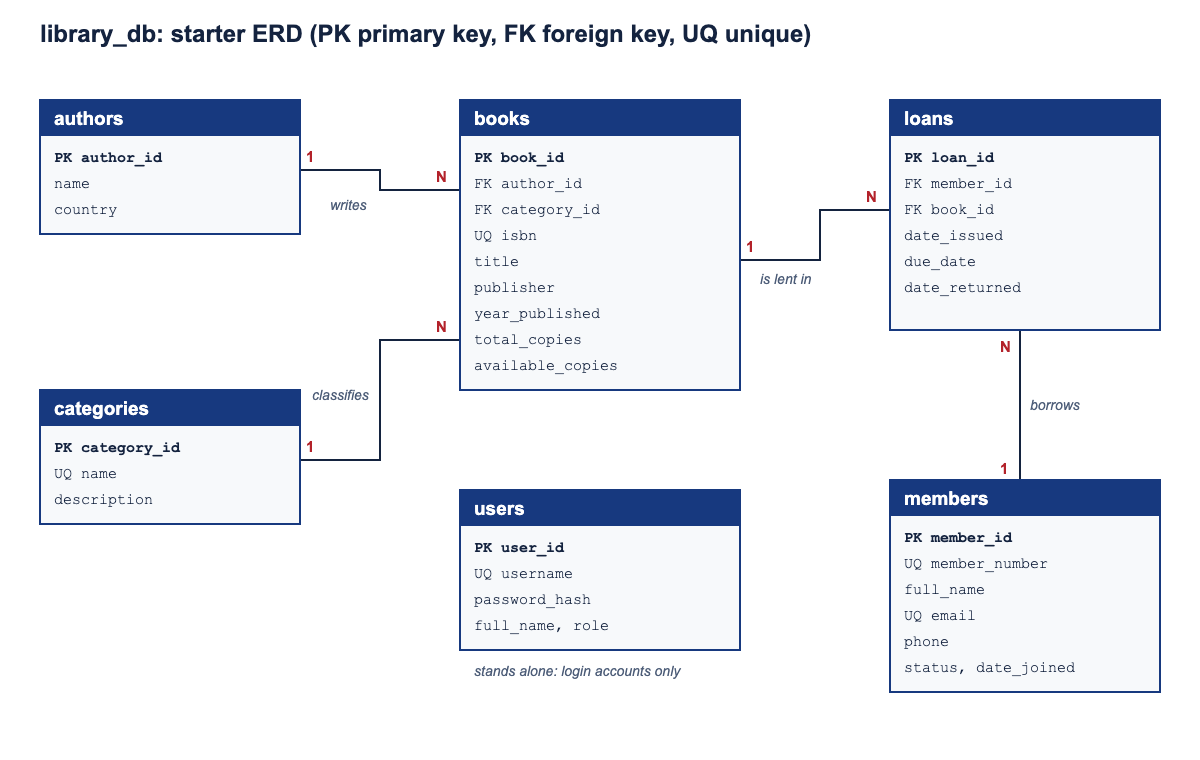
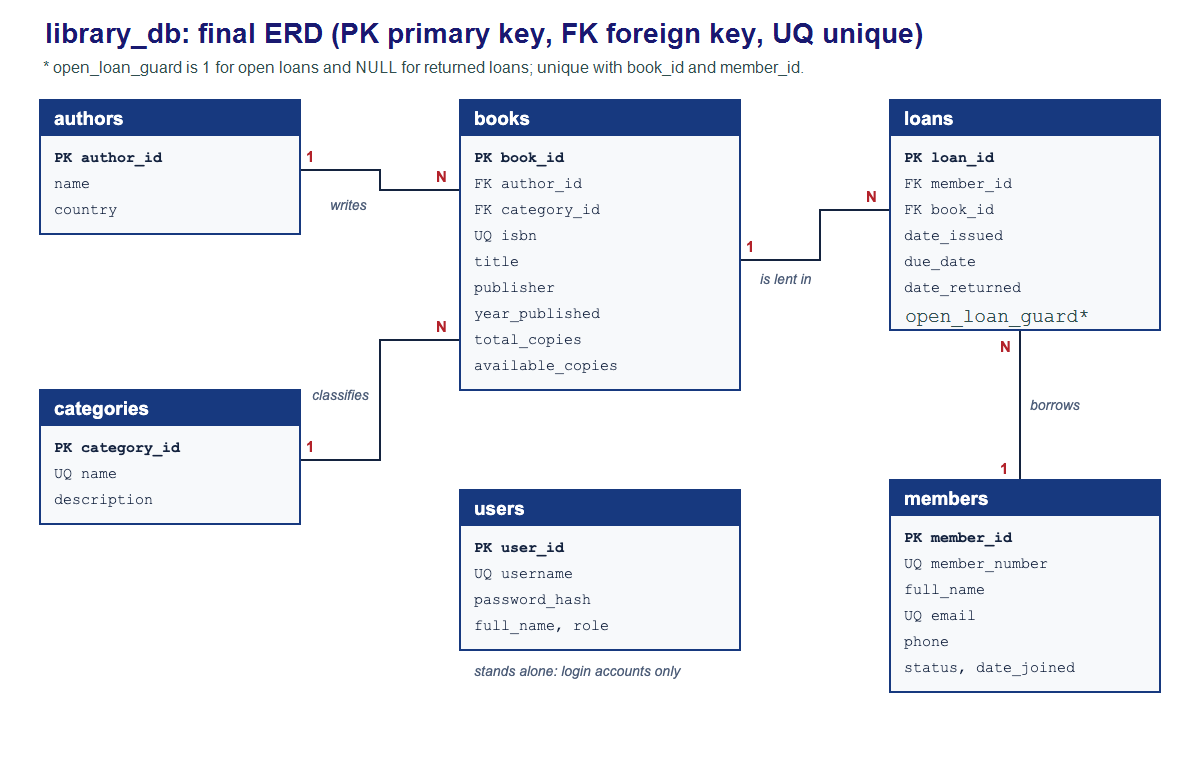
Add and update the DB

Changed region(s): [[0.0308, 0.0303, 0.7708, 0.1211], [0.74, 0.3934, 0.8942, 0.4237]]

diff --git a/Joseph.md b/Joseph.md
@@ -1,0 +1,98 @@
+# Lukwago Joseph — Database Design and Reports
+
+## What I completed
+
+- Updated [`database/library_db.sql`](database/library_db.sql) so the database
+  itself prevents one member from having two open loans for the same book.
+  Returned loans remain in the history and do not block a future loan.
+- Finished all four report queries in [`database/queries.sql`](database/queries.sql):
+  open loans by member, loan totals by category, overdue loans with days overdue
+  and member phone numbers, and books with their authors, categories, and copies
+  currently out.
+- Finalized [`database/erd.png`](database/erd.png) to show the six tables and
+  the open-loan guard.
+- Wrote the table-by-table normalization explanation in
+  [`docs/database-design.md`](docs/database-design.md), including the design's
+  assumptions and the inventory-counter caveat.
+- Extended [`.github/scripts/check-database.sh`](.github/scripts/check-database.sh)
+  to test that a duplicate open loan is rejected and rolled back.
+
+## How I approached the work
+
+### 1. Enforce the loan rule in the schema
+
+An application-only check can be bypassed by another code path and can be
+unreliable if two requests arrive at the same time. I added a stored generated
+column, `open_loan_guard`, to `loans`. It evaluates to `1` when
+`date_returned IS NULL` and `NULL` after the loan is returned. A unique
+constraint on `(book_id, member_id, open_loan_guard)` then allows only one
+matching open loan. Because MariaDB permits multiple `NULL` values in a unique
+key, returned loans remain available as history and the same book can be
+borrowed again later.
+
+### 2. Complete useful reports
+
+The queries join related tables instead of repeating member, author, or
+category information. The overdue report uses `DATEDIFF` and excludes returned
+or not-yet-due loans. The books report uses a `LEFT JOIN` so books with no
+current loans still appear, and counts only open loans as copies out. The
+category report supplies the required aggregate.
+
+### 3. Explain and show the data model
+
+The ERD documents the entities and their one-to-many relationships. The
+normalization write-up explains the keys and why descriptive attributes belong
+in their respective tables. It also notes that `available_copies` is a
+transactionally maintained inventory counter that must agree with the loan
+records.
+
+## Verification
+
+I imported the schema into a temporary MariaDB 10.11.16 database and ran all
+four report queries. I also confirmed that:
+
+- a second open loan for the same member and book is rejected by the unique
+  constraint; and
+- a returned historical loan for that same member and book is allowed.
+
+The temporary test database was dropped afterward; the existing `library_db`
+was not reset. The repository's broader code checks were not part of this
+database-specific verification.
+
+## Rebuild the local sample database
+
+After pulling the changes, open Git Bash in the project folder. Apache and MySQL
+must be running in XAMPP. Then run:
+
+```bash
+composer dev:seed
+```
+
+Confirm with `y` when prompted. This command drops and recreates the local
+`library_db`, then loads the sample data using the updated schema. **It erases
+all existing data in `library_db`**, so back up anything you want to keep first.
+The existing setup can be checked with `composer dev:doctor`; there is no need
+to run `composer dev:start` again if it already reports that the servers are
+running.
+
+> **NB for the team:** Seeding only rebuilds the database and loads sample
+> records. It does not implement unfinished screens or features. For example,
+> the Books page currently still says “Not built yet”; its list, search, and
+> author/category filters must be implemented by the Books workstream. Refreshing
+> the page or reseeding will not change that placeholder.
+
+## How this can be improved
+
+1. **Keep the inventory count atomic.** The application should update a loan
+   and `available_copies` in the same transaction when issuing or returning a
+   book. Add tests for failed updates and concurrent requests so the count
+   cannot drift from the open-loan records.
+2. **Expand regression coverage.** Test that a returned loan is allowed by the
+   automated database check, and cover boundary cases such as a loan due today,
+   returned overdue loans, and books or categories with no loans.
+3. **Keep the ERD and schema in sync.** If tables, keys, or relationships
+   change, update the diagram and normalization explanation in the same
+   change.
+4. **Merge this section into the group report.** [`docs/database-design.md`](docs/database-design.md)
+   is the report-ready database section; the team still needs to combine it
+   with the other members' sections and produce the final submission PDF.

diff --git a/docs/database-design.md b/docs/database-design.md
@@ -1,0 +1,55 @@
+# Database design and normalization
+
+## Final entity-relationship diagram
+
+![Final library database ERD](../database/erd.png)
+
+The schema contains six entities. An author writes many books, a category
+classifies many books, and a member can have many loan records. Each loan
+references one member and one book. User accounts are independent of member
+records because they are staff login accounts, not library patrons.
+
+The database also enforces a business rule on `loans`: a member may have only
+one open loan for a particular book at a time. The generated
+`open_loan_guard` column is `1` for an open loan and `NULL` for a returned loan.
+The unique key on `(book_id, member_id, open_loan_guard)` rejects a second open
+loan while allowing any number of returned loan-history records for the same
+member and book.
+
+## First, second, and third normal forms
+
+- **1NF:** Each table has a primary key and stores one value per column; lists
+  such as multiple authors or multiple loans are represented by related rows,
+  not repeating columns.
+- **2NF:** Every table uses a single-column primary key, so non-key attributes
+  depend on the whole primary key. The composite unique key on
+  `authors(name, country)` is an alternate candidate key; no non-key attribute
+  depends on only part of it.
+- **3NF:** Non-key attributes describe their table's key, not another
+  non-key attribute. Descriptive author and category data live in their own
+  tables rather than being repeated in `books`; member details are not copied
+  into `loans`; and login details are isolated in `users`.
+
+## Table-by-table justification
+
+| Table | Keys and attributes | 3NF justification |
+| --- | --- | --- |
+| `authors` | `author_id` primary key; `name` and `country`; unique (`name`, `country`). | An author's name and country describe the author identified by `author_id`. The alternate unique key prevents duplicate author identities without storing author details in each book row. |
+| `categories` | `category_id` primary key; unique `name`; optional `description`. | The category name and description depend on the category key. Category data are stored once and referenced from books. |
+| `books` | `book_id` primary key; unique `isbn`; author and category foreign keys; title, publisher, publication year, total and available copies. | Book-specific attributes depend on the book key (with ISBN as an alternate key). Author and category descriptions are not stored here, avoiding transitive dependencies through their foreign keys. |
+| `members` | `member_id` primary key; unique `member_number` and `email`; name, phone, status and join date. | Patron attributes depend on the member key. Loans reference the member rather than duplicating their personal details. |
+| `loans` | `loan_id` primary key; member and book foreign keys; issue, due and return dates; generated open-loan guard. | Dates and the guard describe one loan. Member and book details remain in their parent tables. The guard is derived solely from `date_returned`, and its unique key enforces the one-open-loan rule while permitting multiple returned history rows. |
+| `users` | `user_id` primary key; unique `username`; password hash, full name and role. | Login credentials and role depend on the user key. Staff login accounts are separate from patron records because they serve different purposes. |
+
+`available_copies` is stored on `books` as an operational inventory counter so
+issuing and returning can update it transactionally. It is expected to equal
+`total_copies` minus the number of open loan rows; the database check script
+verifies that invariant against the sample data. Application loan and return
+operations must continue to update the counter and loan row together.
+
+## Report queries
+
+`database/queries.sql` contains four report queries: current loans by member,
+loan totals by category, overdue loans with days overdue and phone number, and
+every book with its author, category, and copies out. The category totals query
+is the aggregate report; the other queries use joins to combine related data.
